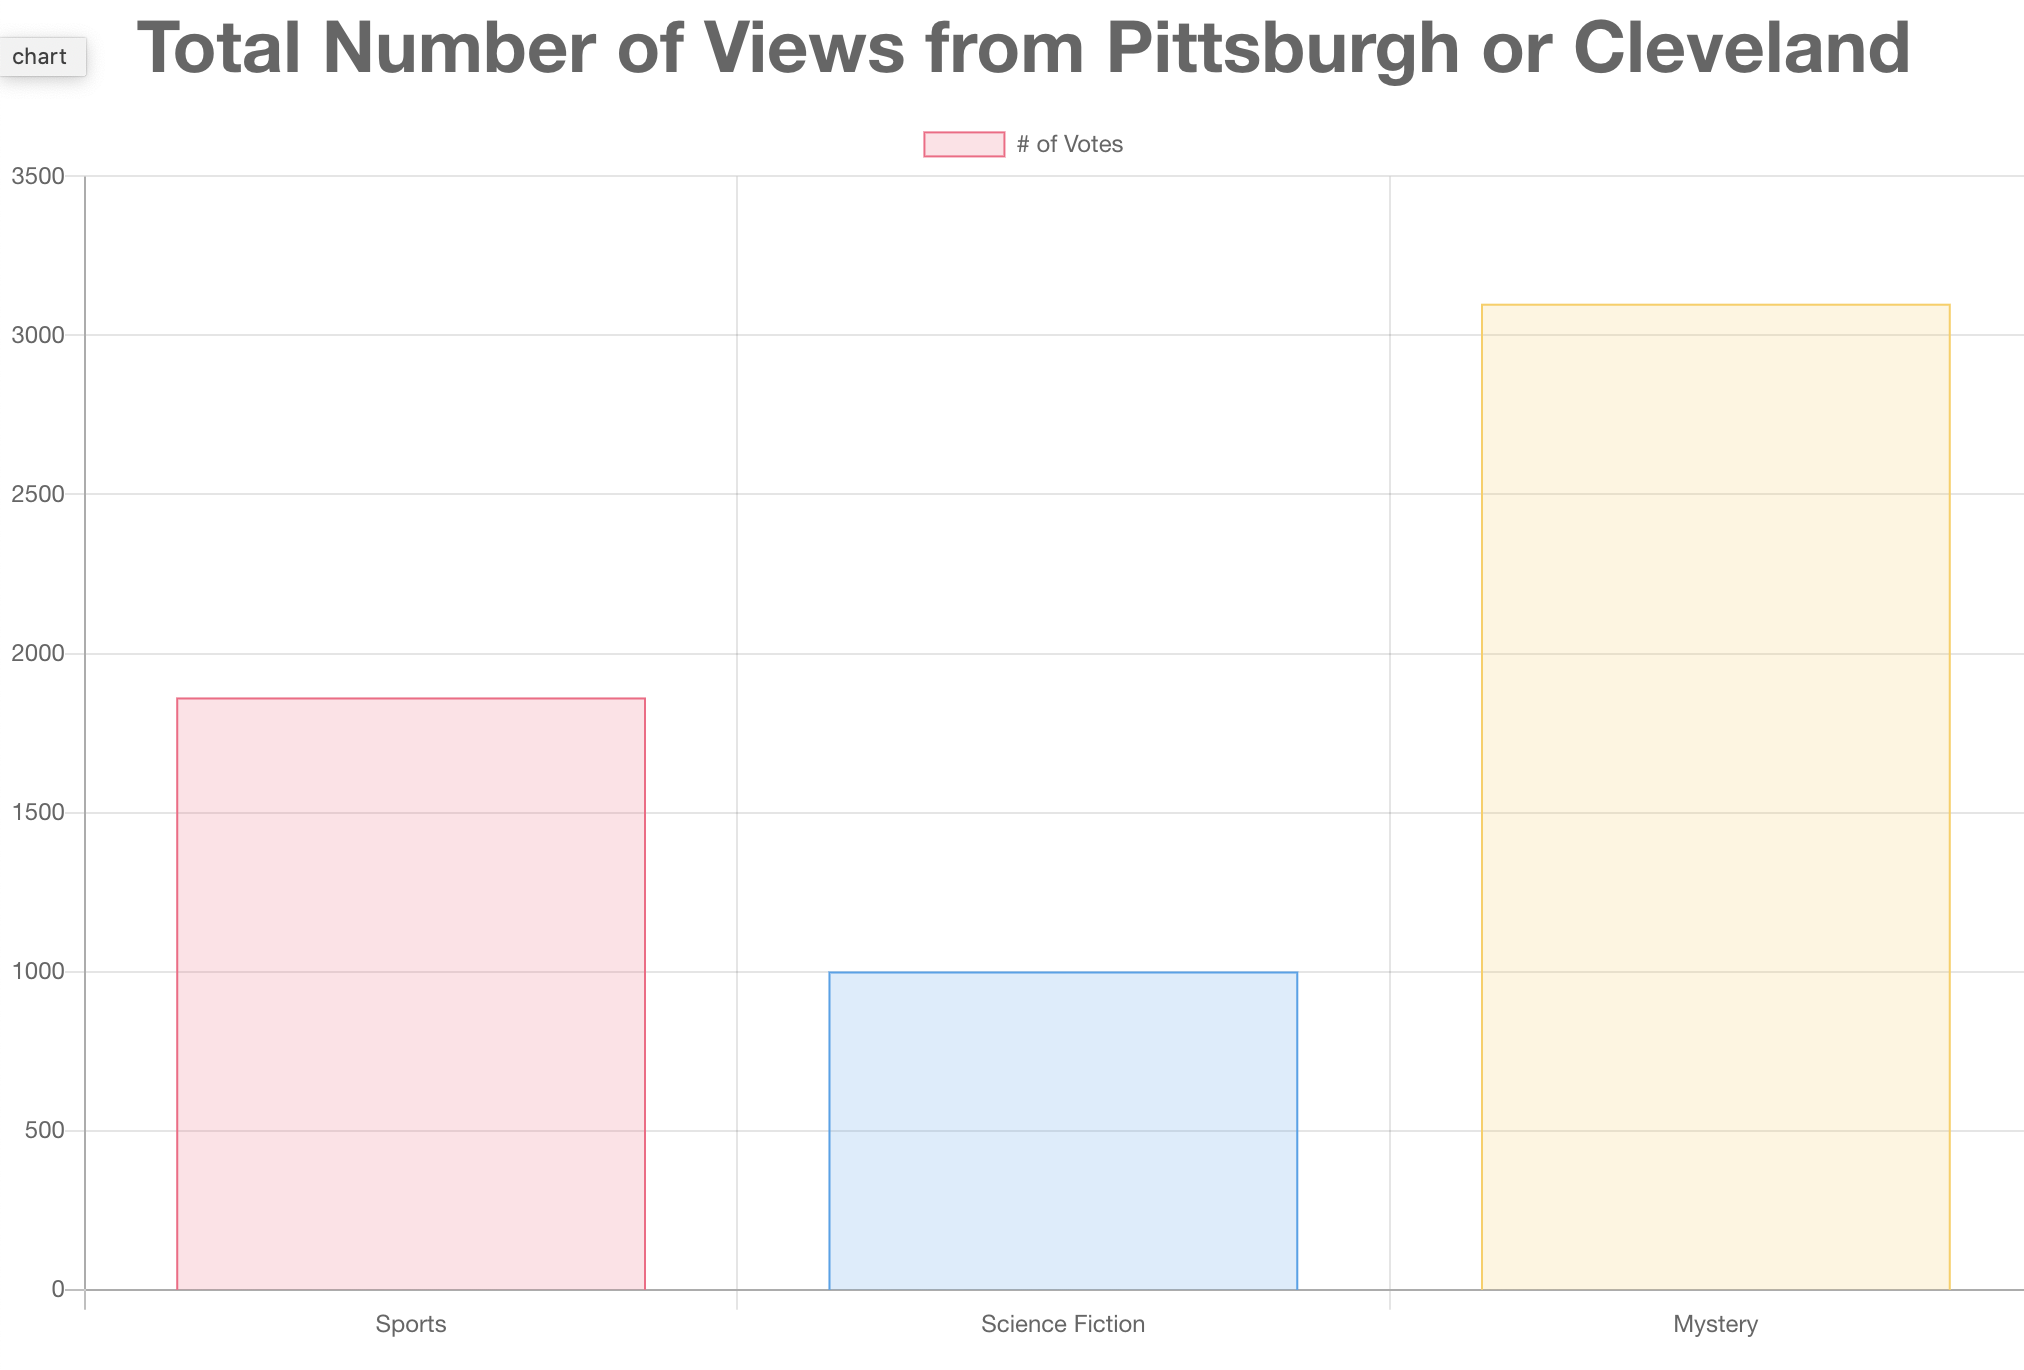
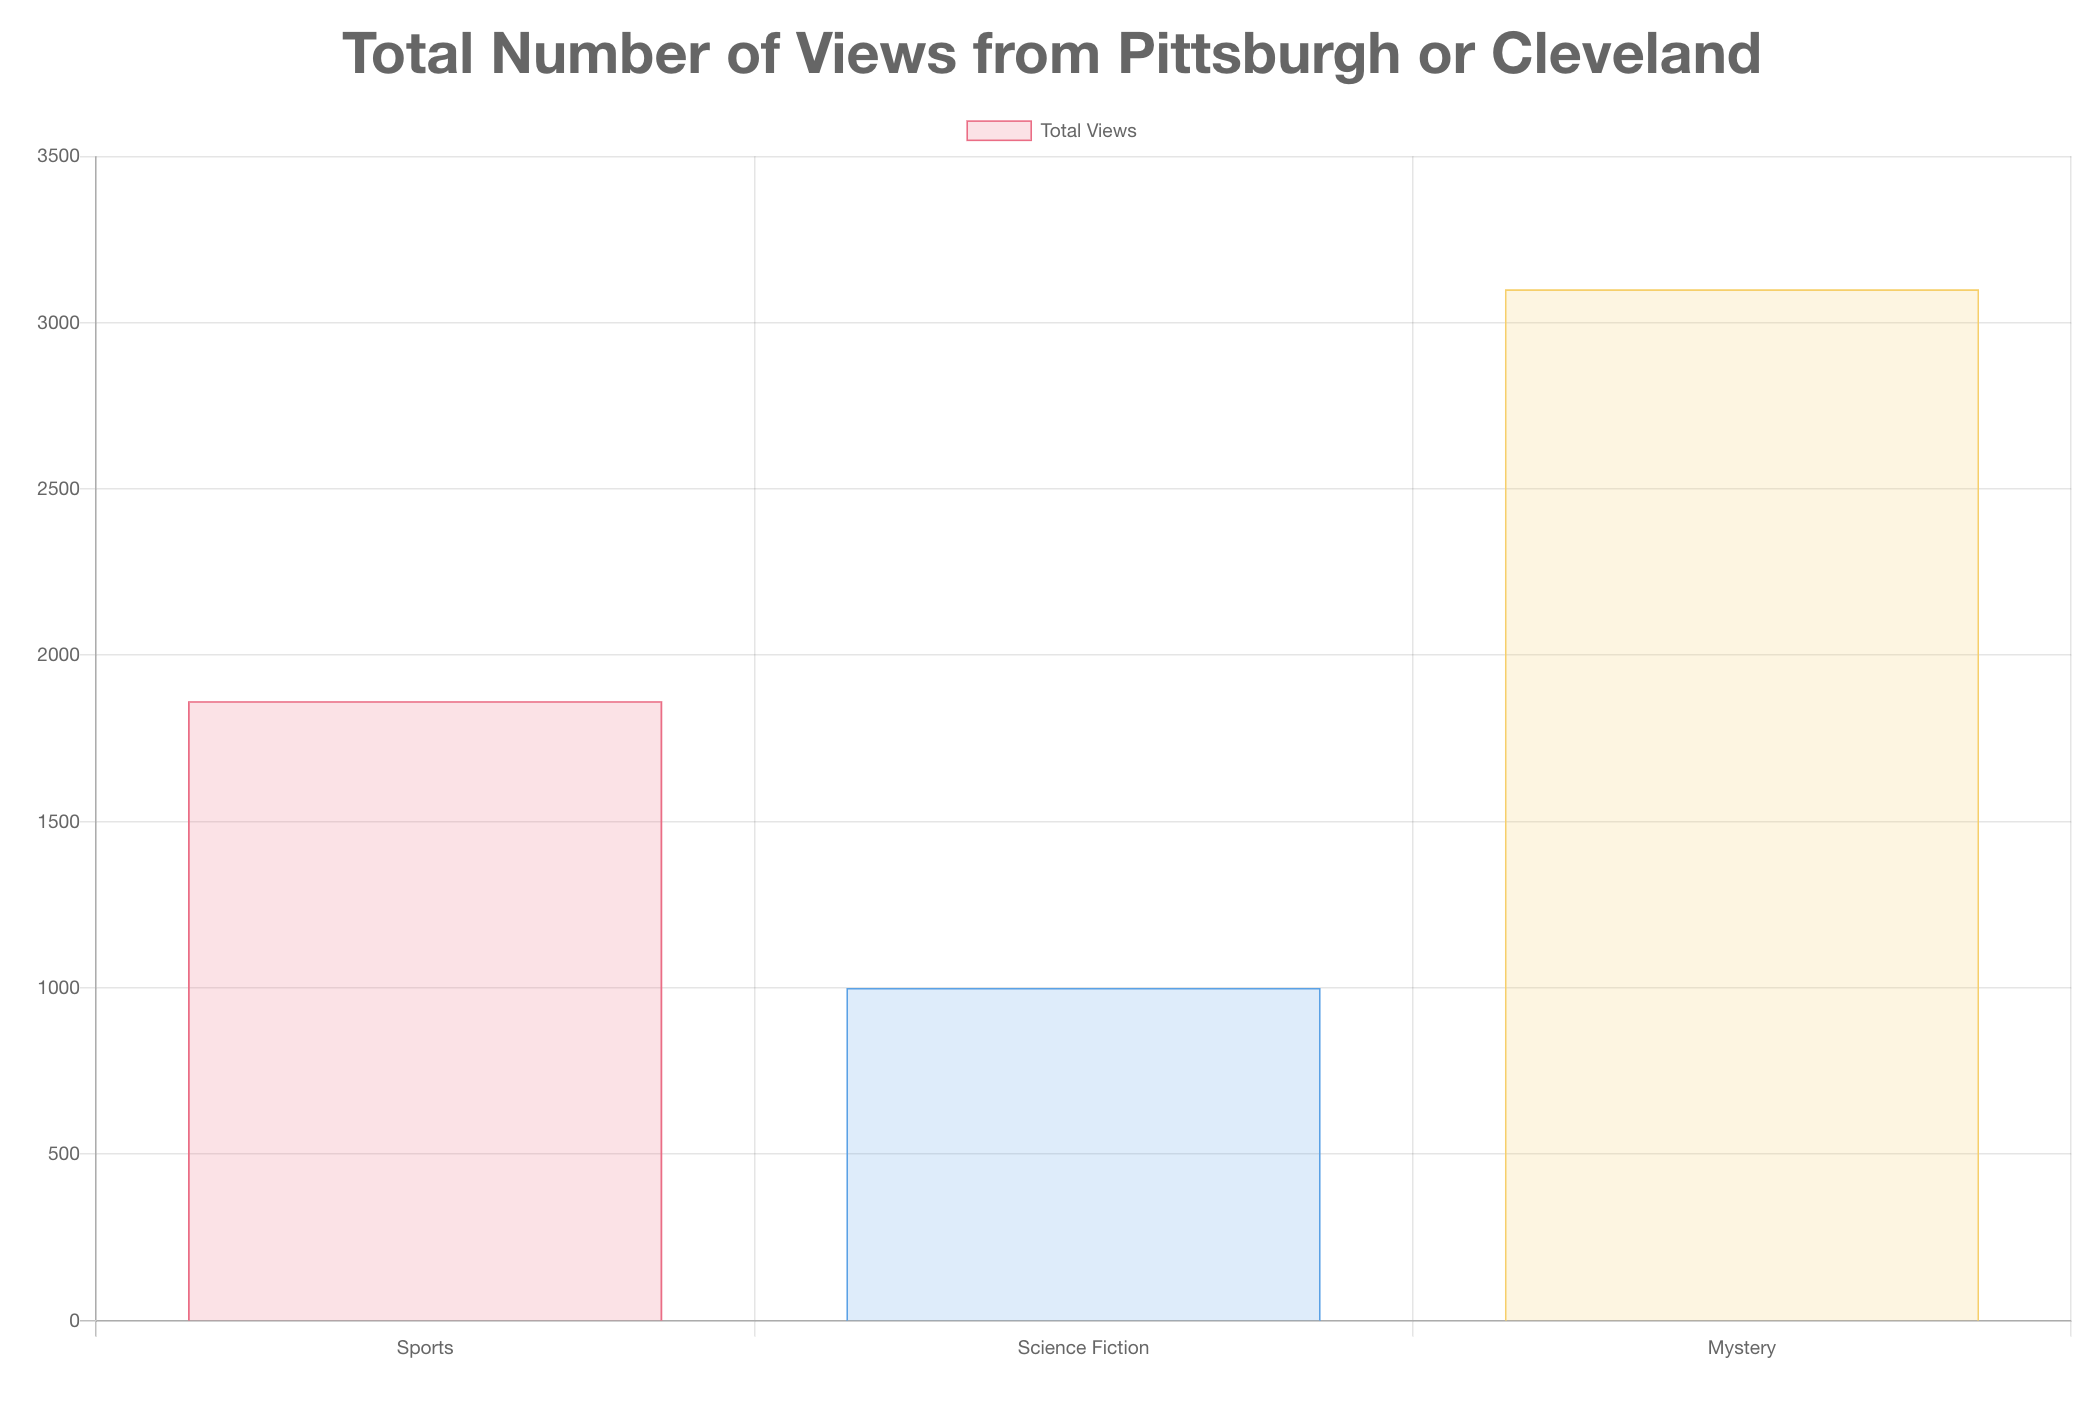
update screenshot and add margins

diff --git a/src/index.css b/src/index.css
@@ -1,13 +1,17 @@
 body {
   margin: 0;
-  font-family: -apple-system, BlinkMacSystemFont, 'Segoe UI', 'Roboto', 'Oxygen',
-    'Ubuntu', 'Cantarell', 'Fira Sans', 'Droid Sans', 'Helvetica Neue',
+  font-family: -apple-system, BlinkMacSystemFont, "Segoe UI", "Roboto", "Oxygen",
+    "Ubuntu", "Cantarell", "Fira Sans", "Droid Sans", "Helvetica Neue",
     sans-serif;
   -webkit-font-smoothing: antialiased;
   -moz-osx-font-smoothing: grayscale;
 }
 
 code {
-  font-family: source-code-pro, Menlo, Monaco, Consolas, 'Courier New',
+  font-family: source-code-pro, Menlo, Monaco, Consolas, "Courier New",
     monospace;
+}
+
+* {
+  margin: 10px 10px 10px 10px;
 }
